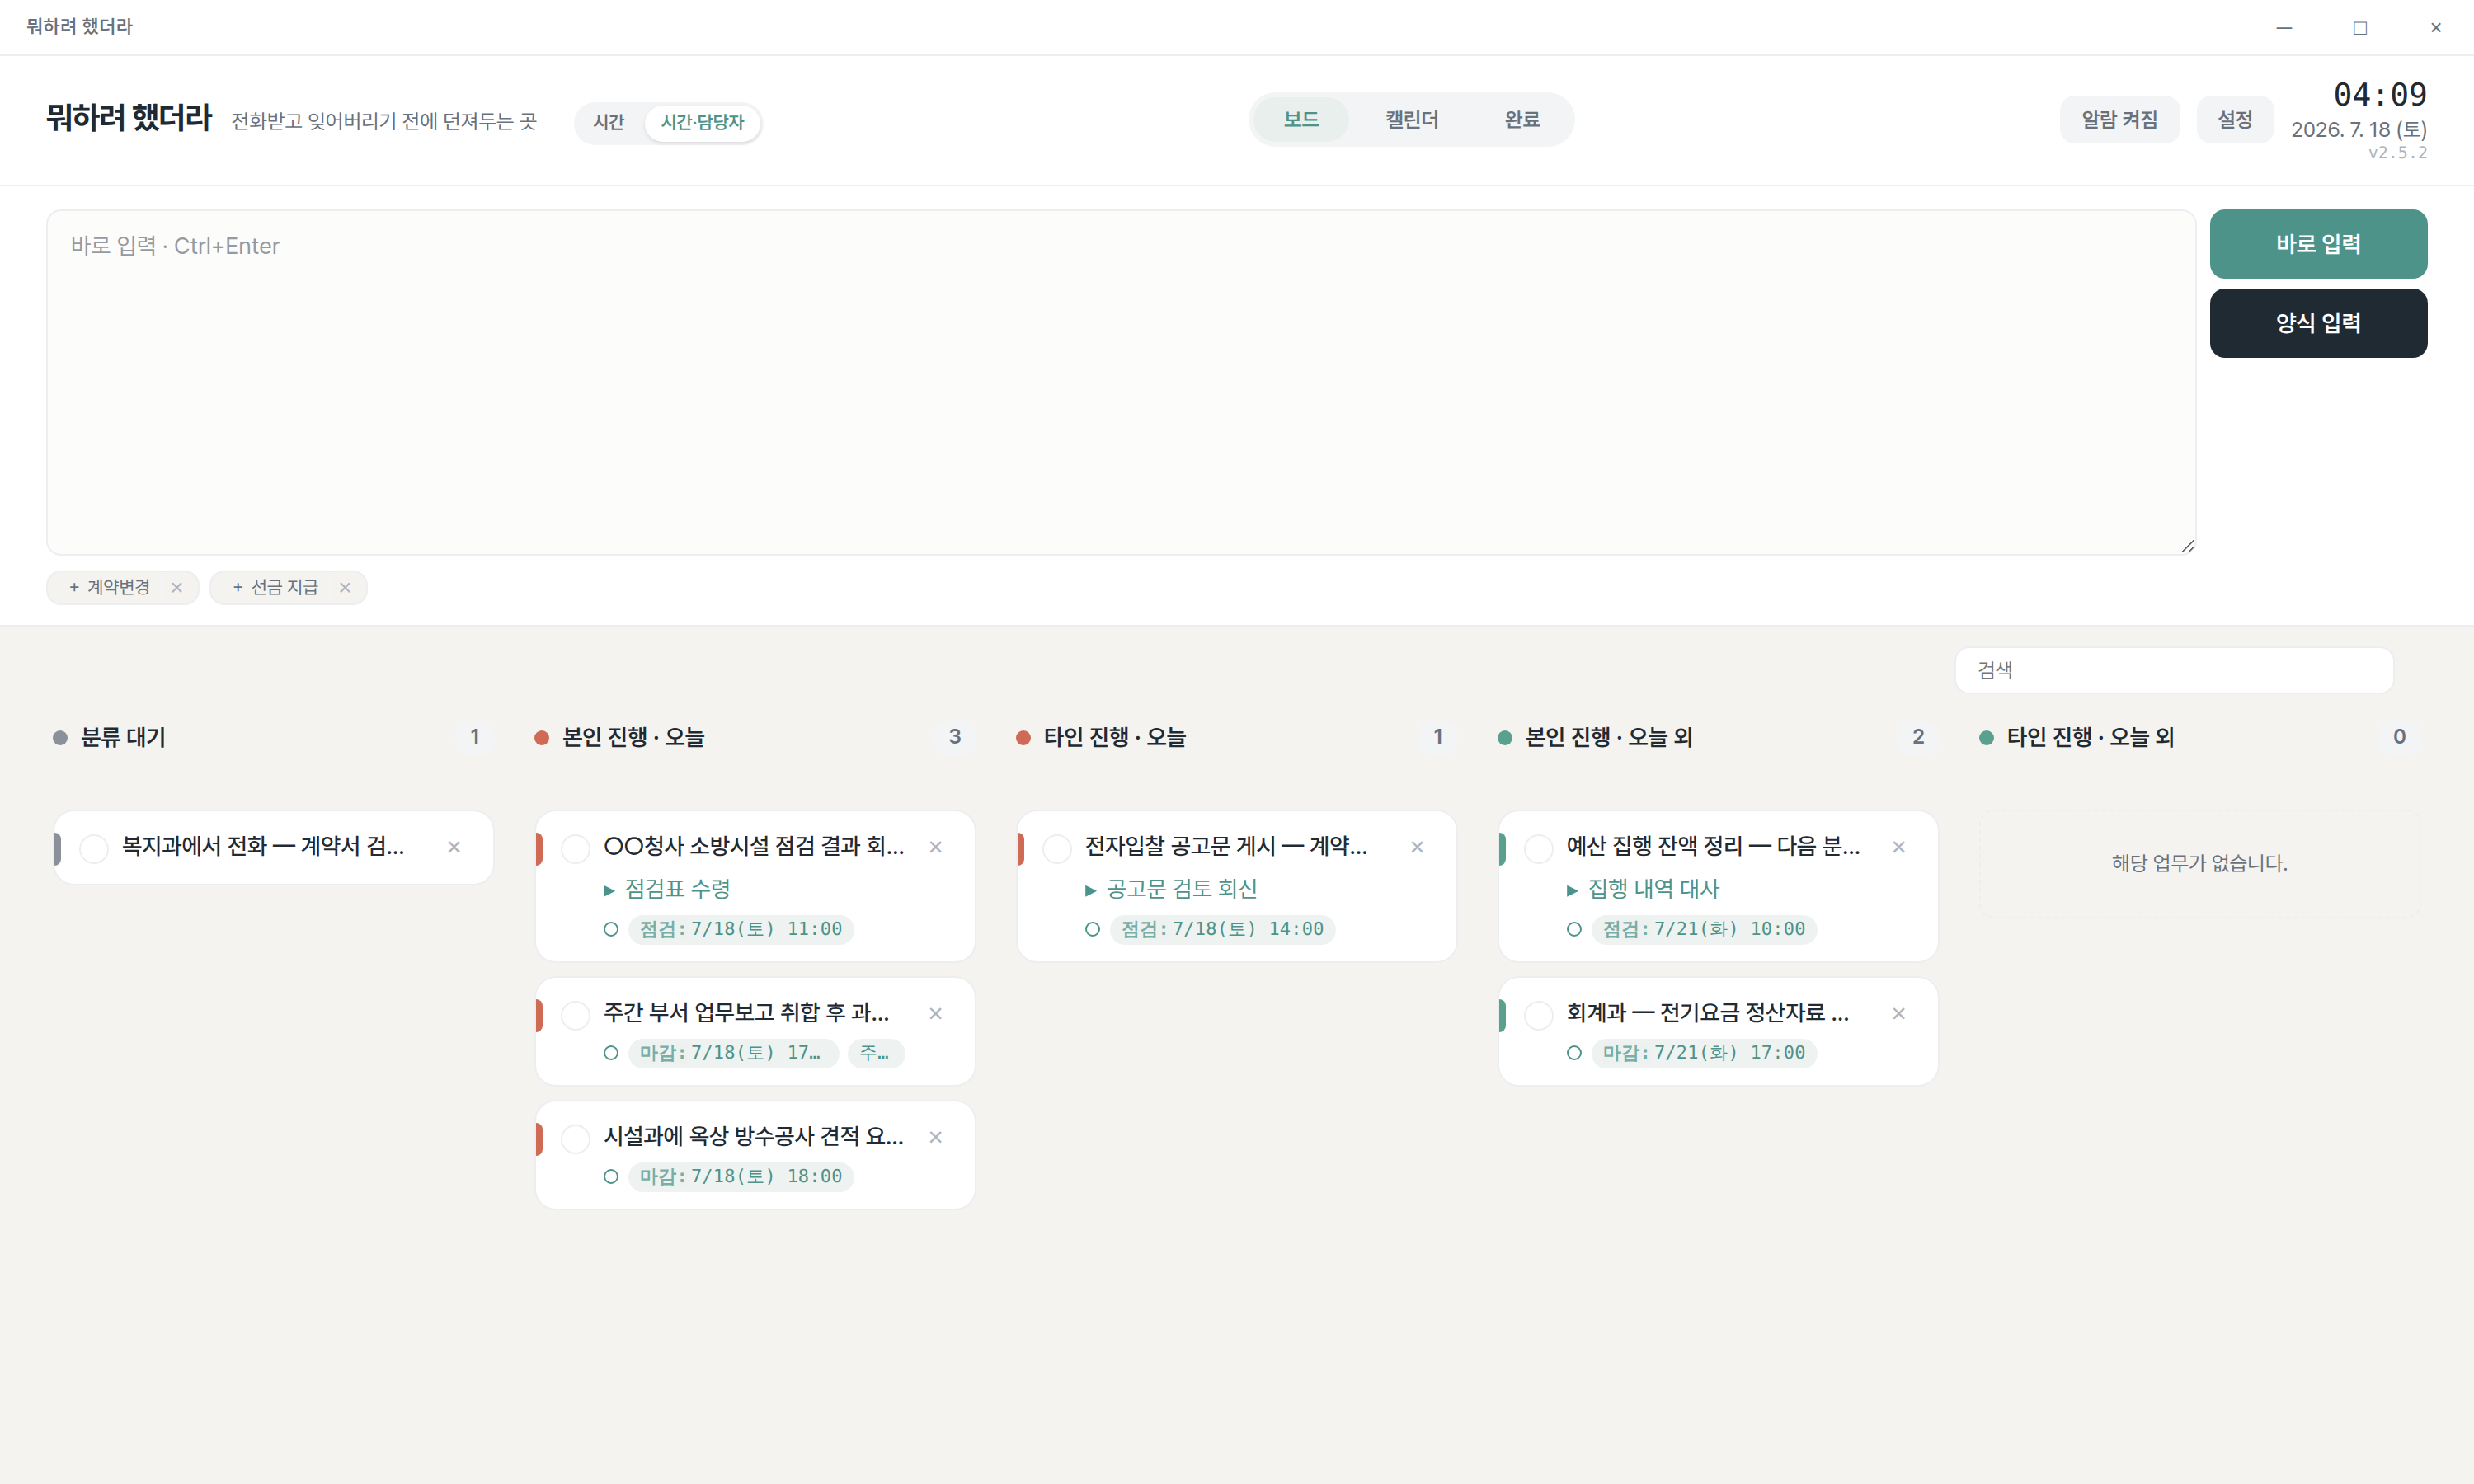
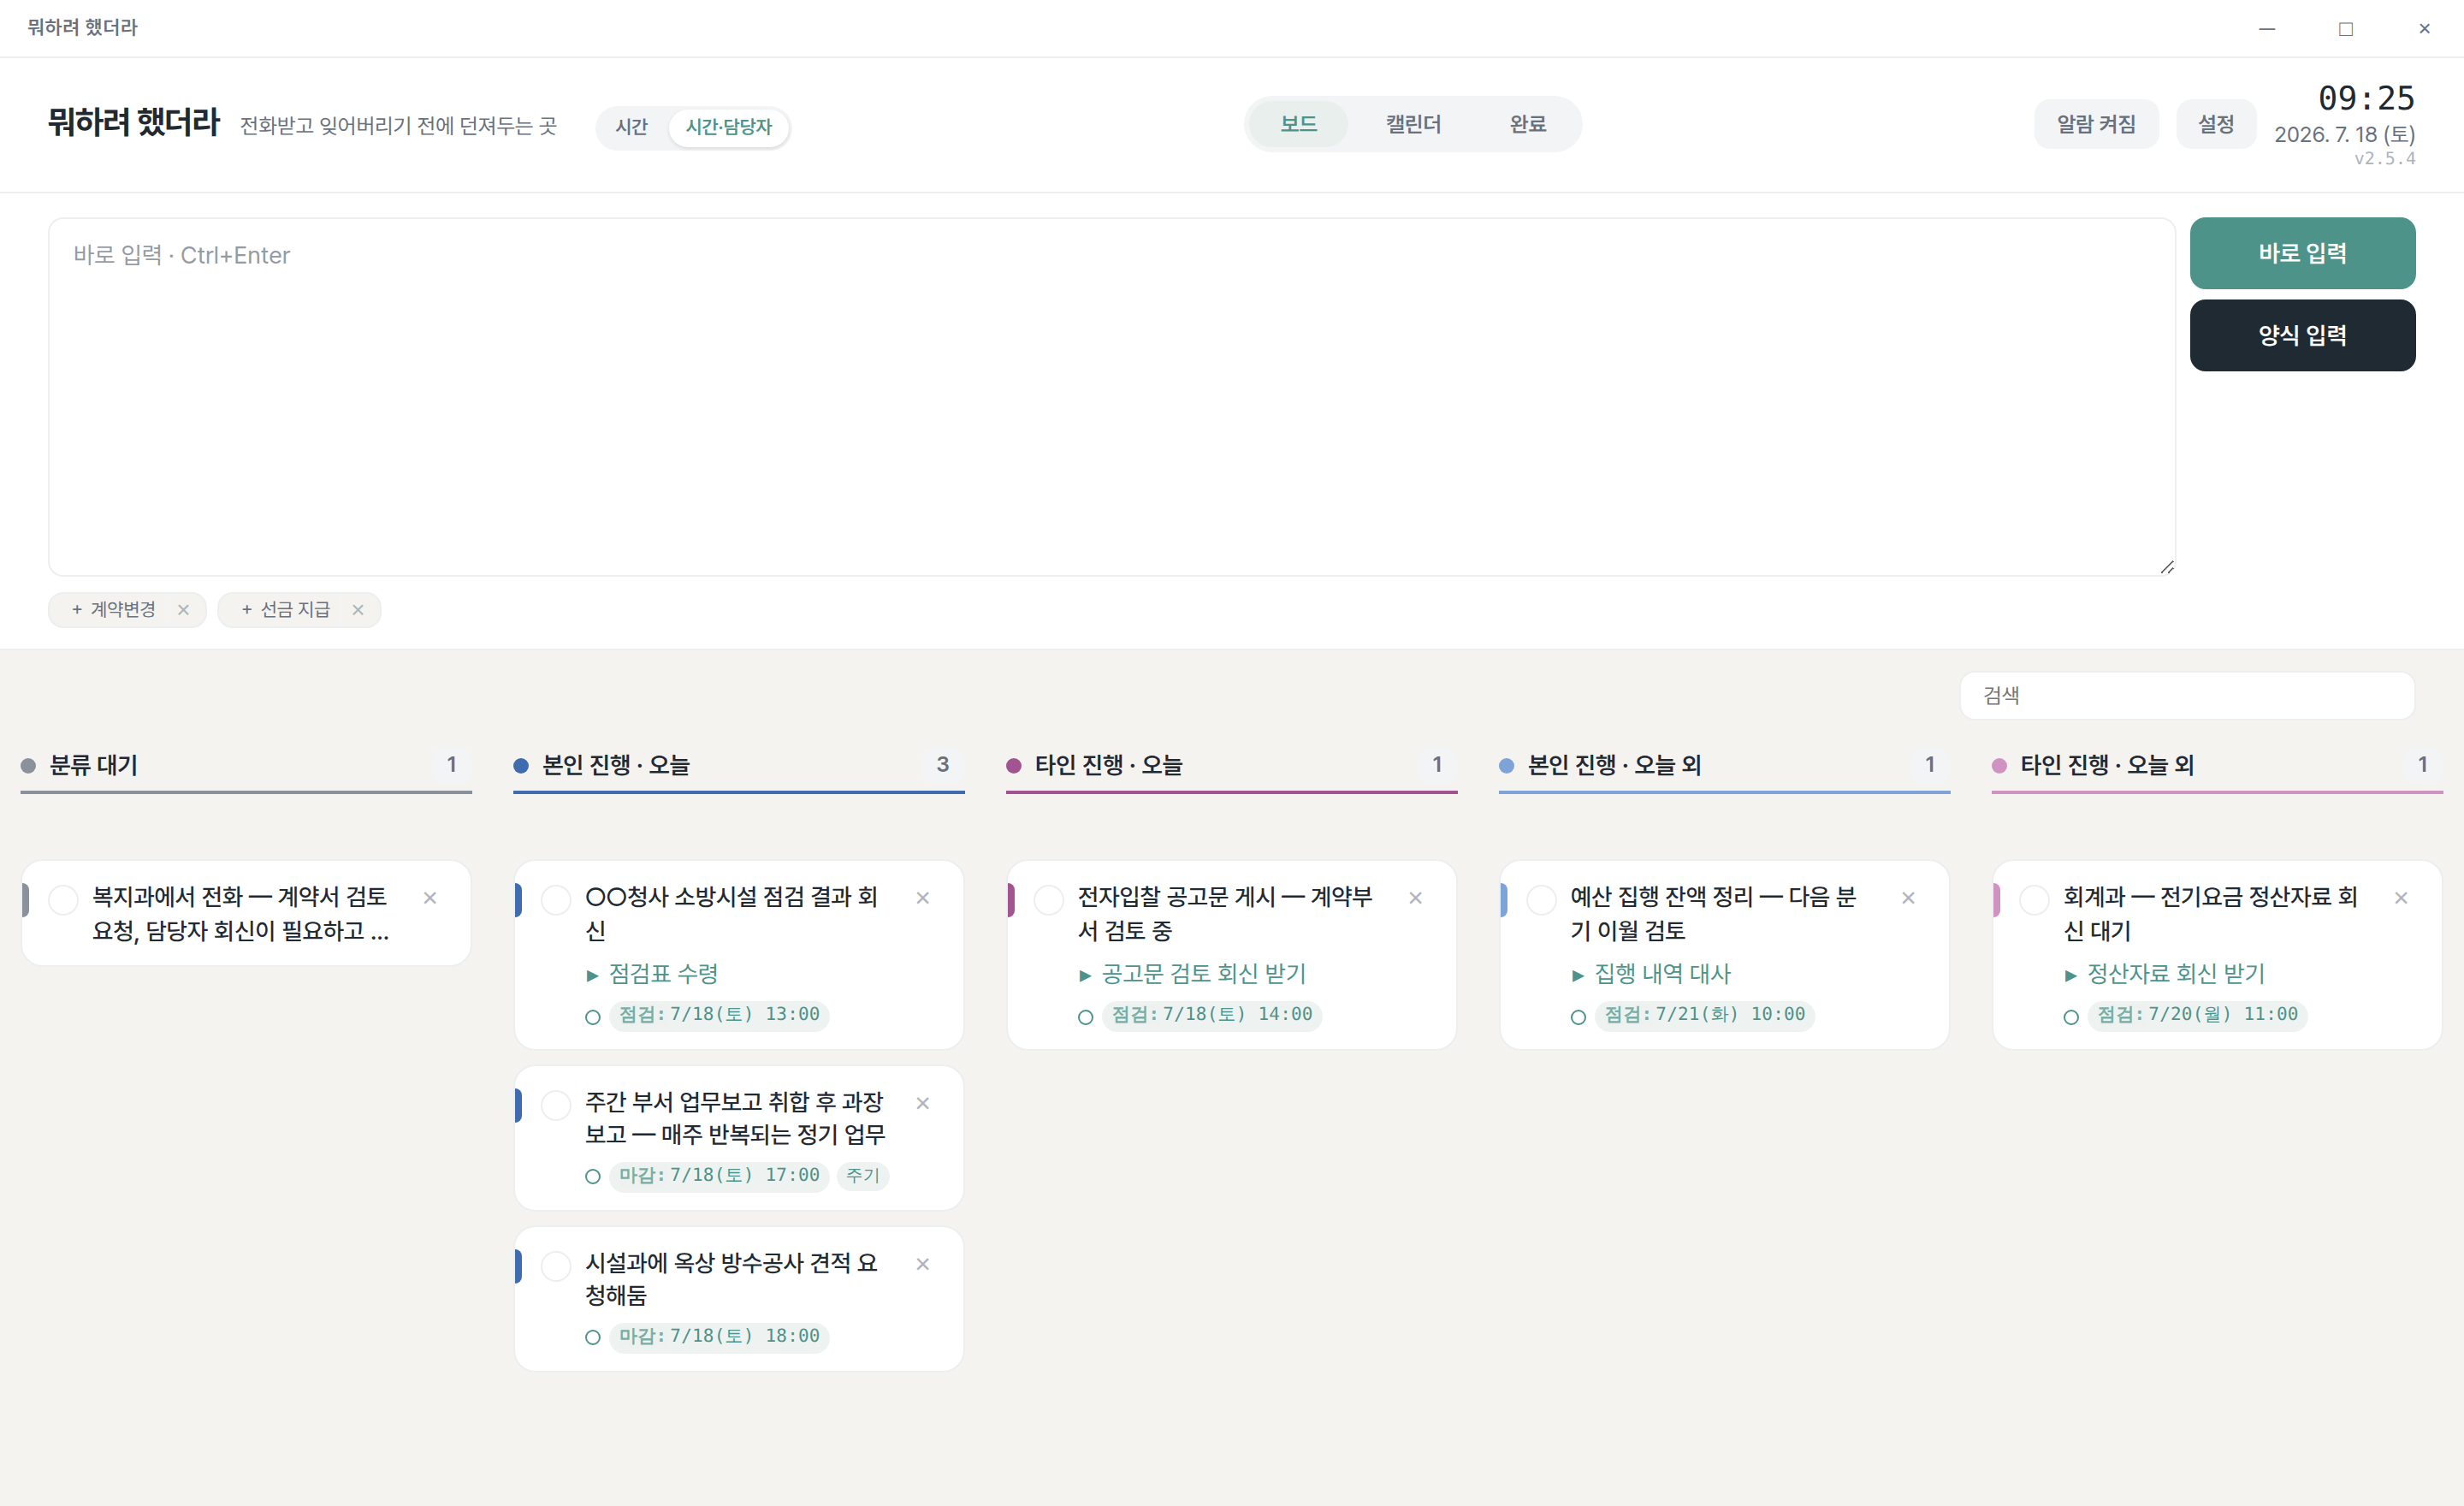
feat: UI 다듬기 — 메모 2줄·들여쓰기 통일·알림창 좌측 세그먼트·5열 색·입력창 auto-grow·반응형/가로스크롤·입력밴드 흰색 [v2.5.4]
카드 표기: 메모 최대 2줄(세부 1·시각 1과 함께 최대 4줄), 세부(▸)·시각(알람점) 줄
들여쓰기를 9px 고정폭 마커 슬롯으로 통일.
알림창: 상단 빨간 바 → 메인 카드식 왼쪽 짧은 색 세그먼트(빨강 유지), 항목도 동일.
시간·담당자 5열: 기존 단계색과 겹치지 않는 남색(본인)·자주(타인) 계열 색을
카드 세그먼트·헤더 밑줄·점에 부여(오늘 진하게/오늘 외 연하게).
바로 입력창: WebView2 드래그 리사이즈 문제를 auto-grow로 근본 해결(내용 따라 세로 확장),
배경 순백으로 입력밴드 주변 회색 톤 제거.
반응형: 좁은 창에서 모드토글이 밖으로 튀던 문제 수정(부제 숨김+브랜드 줄바꿈),
overflow-x:clip으로 가로 스크롤 제거.
문서: CHANGELOG·사용 설명서·README·CLAUDE.md 현행화 + 보드/5열/알림창/반응형 스크린샷 갱신.

Claude-Session: https://claude.ai/code/session_01Rd6saLoZi8f6TZndsjLajn

diff --git a/src/styles.css b/src/styles.css
@@ -8,6 +8,12 @@
     --stage-today:#cf6a55;    /* 오늘 처리 — 적색 */
     --stage-doing:#c69a52;    /* 진행 중 — 노랑(황토) */
     --stage-planned:#5aa08f;  /* 예정 · 대기 — 녹색 */
+    /* 시간·담당자 5열 전용 색 (v2.5.4) — 기존 단계색(회/적/황/녹)과 겹치지 않는
+       남색(본인)·자주(타인) 계열. 오늘=진하게, 오늘 외=연하게로 그룹이 한눈에 구분된다. */
+    --own-metoday:#3f6cae;    /* 본인 · 오늘 — 진한 남색 */
+    --own-othtoday:#a1548f;   /* 타인 · 오늘 — 진한 자주 */
+    --own-meplan:#7ea3d6;     /* 본인 · 오늘 외 — 연한 남색 */
+    --own-othplan:#cf93c2;    /* 타인 · 오늘 외 — 연한 자주 */
 
     /* UI 액센트 (태그 · 버튼 · 프리셋 등) — 기존 청록 유지 */
     --amber:#4d938a; --amber-bg:#eef2f0;
@@ -35,7 +41,8 @@
   *{box-sizing:border-box;margin:0;padding:0}
   html,body{height:100%}
   body{font-family:'Pretendard','Malgun Gothic','맑은 고딕',system-ui,-apple-system,sans-serif;
-       font-size:14px;background:var(--paper);color:var(--ink);-webkit-font-smoothing:antialiased;line-height:1.5}
+       font-size:14px;background:var(--paper);color:var(--ink);-webkit-font-smoothing:antialiased;line-height:1.5;
+       overflow-x:clip}   /* v2.5.4: 가로 스크롤 제거(세로 sticky 헤더에 영향 없는 clip 사용) */
   /* 유리 스크롤바 (WebView2 = webkit 계열만으로 충분) */
   /* v2.5.3: 스크롤바는 안 쓸 때 숨김 — 기본 투명, 스크롤 영역에 마우스를 올리면 유리 썸 표시 */
   ::-webkit-scrollbar{width:11px;height:11px}
@@ -191,8 +198,21 @@
   /* ---- 시간·담당자 모드 보드 (5열, v2.5.0) — main 공통 규칙 뒤에서 열 폭만 덮어씀 ---- */
   #view-board5{display:none;grid-template-columns:repeat(5,minmax(200px,292px));width:auto;max-width:1460px;justify-content:center;margin:0 auto;min-height:calc(100vh - 250px)}
   #view-board5 .col{width:auto;min-width:0;max-width:none;padding:16px 12px}
-  .card.p-metoday::before,.card.p-othtoday::before{background:var(--stage-today)}
-  .card.p-meplan::before,.card.p-othplan::before{background:var(--stage-planned)}
+  /* v2.5.4: 5개 구분 영역별 색 — 카드 좌측 세그먼트 + 컬럼 헤더 밑줄 + 점 */
+  .card.p-metoday::before{background:var(--own-metoday)}
+  .card.p-othtoday::before{background:var(--own-othtoday)}
+  .card.p-meplan::before{background:var(--own-meplan)}
+  .card.p-othplan::before{background:var(--own-othplan)}
+  #view-board5 .col-head{border-bottom:2px solid transparent;padding-bottom:4px;margin-bottom:8px}
+  #view-board5 .col:nth-child(1) .col-head{border-bottom-color:var(--stage-inbox)}
+  #view-board5 .col:nth-child(2) .col-head{border-bottom-color:var(--own-metoday)}
+  #view-board5 .col:nth-child(3) .col-head{border-bottom-color:var(--own-othtoday)}
+  #view-board5 .col:nth-child(4) .col-head{border-bottom-color:var(--own-meplan)}
+  #view-board5 .col:nth-child(5) .col-head{border-bottom-color:var(--own-othplan)}
+  #view-board5 .col:nth-child(2) .dot{background:var(--own-metoday)}
+  #view-board5 .col:nth-child(3) .dot{background:var(--own-othtoday)}
+  #view-board5 .col:nth-child(4) .dot{background:var(--own-meplan)}
+  #view-board5 .col:nth-child(5) .dot{background:var(--own-othplan)}
   .col:last-child{border-right:none}
   .col-head{display:flex;align-items:center;gap:8px;margin-bottom:3px}
   .dot{width:9px;height:9px;border-radius:50%;flex:none}
@@ -341,9 +361,13 @@
 
   .alarm-bg{position:fixed;inset:0;z-index:120;background:rgba(20,27,36,.5);display:none;align-items:center;justify-content:center;padding:20px}
   .alarm-bg.on{display:flex}
-  .alarm{background:var(--card);border-top:5px solid var(--red);border-radius:9px;max-width:500px;width:100%;padding:18px 20px;box-shadow:0 20px 60px rgba(0,0,0,.3)}
+  /* v2.5.4: 알림창 왼쪽면을 메인 카드와 동일한 '짧은 색 세그먼트'로 통일(단계색=빨강 유지).
+     기존 상단 빨간 바·항목 풀-높이 좌측선 → 카드처럼 좌측 상단 짧은 세그먼트(::before). */
+  .alarm{background:var(--card);border:1px solid var(--line);border-radius:13px;max-width:500px;width:100%;padding:18px 20px 18px 22px;position:relative;overflow:hidden;box-shadow:0 20px 60px rgba(0,0,0,.3)}
+  .alarm::before{content:"";position:absolute;left:0;top:20px;width:4px;height:22px;border-radius:0 4px 4px 0;background:var(--red)}
   .alarm h3{font-size:16px;font-weight:700;color:var(--red);margin-bottom:12px}
-  .alarm .a-item{font-size:14px;padding:8px 10px;border:1px solid var(--line-soft);border-left:3px solid var(--red);border-radius:6px;margin-bottom:6px;background:#fdfafa}
+  .alarm .a-item{position:relative;overflow:hidden;font-size:14px;padding:8px 10px 8px 15px;border:1px solid var(--line);border-radius:13px;margin-bottom:6px;background:#fff}
+  .alarm .a-item::before{content:"";position:absolute;left:0;top:9px;width:4px;height:18px;border-radius:0 4px 4px 0;background:var(--red)}
   .alarm .a-item b{color:var(--red);font-size:11px;font-family:var(--font-mono);margin-right:6px}
   .alarm .a-item .mono{font-size:11px;color:var(--ink-soft);margin-left:6px}
   .a-actions{display:flex;gap:8px;justify-content:flex-end;margin-top:12px}
@@ -360,7 +384,8 @@
     .fm-grid{grid-template-columns:1fr 1fr}
   }
   /* ---- v5 추가 ---- */
-  textarea#inp{flex:1;min-width:0;resize:vertical;height:210px;font-family:inherit;font-size:14px;line-height:1.5;padding:11px 14px;border:1.5px solid var(--line);border-radius:9px;background:#fcfcfb;color:var(--ink)}
+  /* v2.5.4: height→min-height (JS auto-grow가 내용에 맞춰 늘림, 최소는 210px 유지) · 배경 순백(#fff)으로 입력밴드 주변 회색 톤 제거 */
+  textarea#inp{flex:1;min-width:0;resize:vertical;min-height:210px;font-family:inherit;font-size:14px;line-height:1.5;padding:11px 14px;border:1.5px solid var(--line);border-radius:9px;background:#fff;color:var(--ink)}
   textarea#inp::placeholder{color:var(--ink-soft);opacity:.7}
   textarea#inp:focus{outline:none;border-color:var(--focus);background:#fff;box-shadow:0 0 0 3px rgba(26,95,110,.14)}
   .cap-btns{display:flex;flex-direction:column;gap:6px;flex:none;width:132px}
@@ -387,11 +412,14 @@
   .dt-dow{font-size:11px;color:var(--ink-soft);min-width:22px;flex:none}
   /* v5 카드 요약 */
   .card{cursor:pointer}
-  /* v2.5.2: 메모도 최대 1줄 — 카드 전체가 줄당 1행(메모·세부·시각) */
-  .card-memo{font-size:14px;font-weight:500;line-height:1.4;color:var(--ink);display:-webkit-box;-webkit-line-clamp:1;-webkit-box-orient:vertical;overflow:hidden;word-break:break-word}
+  /* v2.5.4: 메모 최대 2줄 (세부 1줄·시각 1줄과 함께 카드 최대 4줄) */
+  .card-memo{font-size:14px;font-weight:500;line-height:1.4;color:var(--ink);display:-webkit-box;-webkit-line-clamp:2;-webkit-box-orient:vertical;overflow:hidden;word-break:break-word}
   .card.done .card-memo{text-decoration:line-through;color:var(--done)}
   /* v2.5.1: 세부 제목 글자는 메모와 동일 크기(14px), 점검 시각 칩은 메타 줄의 점검: 태그로 이동 */
-  .card-subline{font-size:14px;color:var(--slate);margin-top:5px;display:flex;align-items:center;gap:6px;white-space:nowrap;overflow:hidden;text-overflow:ellipsis}
+  .card-subline{font-size:14px;color:var(--slate);margin-top:5px;display:flex;align-items:center;gap:5px;white-space:nowrap;overflow:hidden;text-overflow:ellipsis}
+  /* v2.5.4: 세부(▸)·시각(알람점) 두 줄의 들여쓰기를 통일 — 앞 마커를 알람점과 같은 9px 폭 슬롯으로.
+     세부: 9px 마커 + gap5 = 14px, 시각: 알람점 9px + margin1 + meta gap4 = 14px → 뒤 텍스트가 정렬된다. */
+  .card-subline .sub-mark{display:inline-block;width:9px;flex:none;text-align:center;color:var(--slate)}
   /* 알람 점 — 울림 여부 3단계(v2.4.4): ○ 대기 / ● 울림(빨강·깜빡임) / ● 확인함(초록) */
   .adot{display:inline-block;width:9px;height:9px;border-radius:50%;flex:none;vertical-align:middle;margin-right:1px}
   .adot.ad-wait{border:1.5px solid var(--slate);background:transparent}
@@ -432,9 +460,16 @@
     /* 세로 배치에서 입력칸이 절반 폭으로 쪼그라들지 않게 stretch + 폭 100%.
        높이도 낮춰 좁은 창에서 입력부가 화면을 다 먹지 않게. */
     .cap-row{flex-direction:column;align-items:stretch}
-    textarea#inp{width:100%;height:110px}
+    textarea#inp{width:100%;min-height:110px}
     .cap-btns{flex-direction:row;width:100%}
     .cap-btns .btn{flex:1;height:38px}
+  }
+  /* v2.5.4: 좁은 창 헤더 — 부제(설명글)를 숨기고 브랜드를 줄바꿈 허용해
+     모드토글(시간·담당자)이 화면 밖으로 튀어나가지 않게(가로 스크롤 방지). */
+  @media(max-width:820px){
+    .brand{flex-wrap:wrap;min-width:0}
+    .brand .sub{display:none}
+    .mode-pill{margin-left:0;margin-top:2px}
   }
   @media(max-width:620px){
     main{grid-template-columns:1fr}

diff --git a/src/form.js b/src/form.js
@@ -18,7 +18,16 @@ export function captureMemo(t){
 export function toInbox(){
   const t=$('inp').value.trim(); if(!t){$('inp').focus();return;}
   captureMemo(t);
-  $('inp').value=''; $('inp').focus();
+  $('inp').value=''; $('inp').style.height=''; $('inp').focus();   // 등록 후 높이 초기화(min-height로 복귀)
+}
+/* v2.5.4: 바로 입력창 자동 세로 확장 — 내용에 맞춰 늘어난다(최소 CSS min-height, 최대 60vh 뒤 스크롤).
+   WebView2에서 드래그 리사이즈가 잘 안 잡히던 문제를 근본 해결(타이핑만으로 늘어남). resize 핸들은 그대로 둠. */
+export function autoGrowInp(){
+  const el=$('inp'); if(!el) return;
+  el.style.height='auto';
+  const min=parseFloat(getComputedStyle(el).minHeight)||0;
+  const max=Math.max(min, Math.round(window.innerHeight*0.6));
+  el.style.height=Math.min(Math.max(el.scrollHeight, min), max)+'px';
 }
 
 /* (2) 양식 패널 */
@@ -204,6 +213,7 @@ export function initForm(){
   document.body.appendChild($('formPanel'));
   $('toInbox').addEventListener('click', toInbox);
   $('inp').addEventListener('keydown',e=>{ if(e.key==='Enter'&&(e.ctrlKey||e.metaKey)){e.preventDefault();toInbox();} });
+  $('inp').addEventListener('input', autoGrowInp);   // v2.5.4: 입력 시 자동 세로 확장
   $('fm-contactadd').addEventListener('click',()=>addContactRow());
   $('fm-idadd').addEventListener('click',()=>{
     addFormIdRow(S.idKinds[0]||'기타','');
@@ -218,7 +228,7 @@ export function initForm(){
     catch(e){ alert('파일 선택 실패: '+e); return; }
     if(p) addFormFileRow(p);
   });
-  $('blankForm').addEventListener('click',()=>{ const t=$('inp').value.trim(); openForm(t?{memo:t}:{}); if(t)$('inp').value=''; });
+  $('blankForm').addEventListener('click',()=>{ const t=$('inp').value.trim(); openForm(t?{memo:t}:{}); if(t){$('inp').value='';$('inp').style.height='';} });
   $('fm-cancel').addEventListener('click',closeForm);
   $('formPanel').addEventListener('input',e=>{ if(e.target.closest('#fm-grid,#fm-subs')) updatePlacePreview(); });
   $('fm-save').addEventListener('click',()=>{

diff --git a/src/render.js b/src/render.js
@@ -81,7 +81,7 @@ export function cardHtml(it,place){
   const dueT=(it.f||{}).due?new Date(it.f.due).getTime():NaN;
   const esT=es&&es.mid?new Date(es.mid).getTime():NaN;
   const subFirst = !isNaN(esT) && (isNaN(dueT) || esT<dueT);
-  const subLine = es?`<div class="card-subline">▸ <span class="sub-title">${esc(es.title)}</span></div>`:'';
+  const subLine = es?`<div class="card-subline"><span class="sub-mark">▸</span><span class="sub-title">${esc(es.title)}</span></div>`:'';
   const timeTag = subFirst ? timePill(es,'mid',es.mid,'점검:') : dueTagHtml(it);
   /* v2.5.2 주기 배지는 시각 줄에 인라인(시각 없으면 단독 줄) — 4번째 메타 줄(#세부·#담당) 폐지 */
   const timeLine = (timeTag||recurTag)?`<div class="card-meta">${timeTag}${recurTag}</div>`:'';

diff --git a/사용 설명서.md b/사용 설명서.md
@@ -43,18 +43,19 @@
 
 ![보드 화면 — 분류 대기·오늘 처리·진행 중·예정·대기 네 칸](docs/screenshots/board.png)
 
-> 예시 데이터 화면입니다. 오른쪽 위에 현재 버전(v2.5.2)이 보입니다.
+> 예시 데이터 화면입니다. 오른쪽 위에 현재 버전(v2.5.4)이 보입니다.
 
 ### 카드 읽는 법
 
-카드 한 장은 **세 줄**이 전부입니다. 각 줄은 한 행으로만 표시됩니다(길면 …).
+카드 한 장은 **최대 네 줄**입니다 — 메모만 두 줄까지, 나머지는 각 한 줄(길면 …).
 
 | 줄 | 내용 |
 |---|---|
-| 1줄 | **메모** — 무슨 일인지 |
-| 2줄 | **세부할일** — 다음에 할 중간 단계 (있을 때만) |
-| 3줄 | **시각** — `점검:`(다가오는 세부할일 시각) 또는 `마감:`(마감 시각) |
+| 1~2줄 | **메모** — 무슨 일인지 (최대 두 줄) |
+| 3줄 | **세부할일** — 다음에 할 중간 단계 (있을 때만) |
+| 4줄 | **시각** — `점검:`(다가오는 세부할일 시각) 또는 `마감:`(마감 시각) |
 
+- 세부할일 줄과 시각 줄은 앞 표시(▸·알람 점)의 시작선을 맞춰 **같은 위치에서 들여쓰기**됩니다.
 - 시각 태그는 **임박(지났거나 2시간 이내)일 때만 붉게** 강조됩니다. 그 외엔 중립색.
 - `주기` 배지 = 주기 업무에서 자동 생성된 카드.
 - 시각 앞의 작은 점(●)은 알람 상태입니다 → [4. 알람](#4-알람--잊지-않게) 참고.
@@ -80,7 +81,10 @@
 
 **② 시간·담당자 방식** — "내 일인가, 남에게 넘겨 기다리는 일인가"를 함께 봅니다.
 
-![시간·담당자 보드 — 다섯 칸](docs/screenshots/board-owner.png)
+![시간·담당자 보드 — 다섯 칸, 영역별 색 구분](docs/screenshots/board-owner.png)
+
+> 다섯 칸은 **색으로 구분**됩니다 — 분류 대기(회색), **본인**(남색), **타인**(자주),
+> 오늘은 진하게 / 오늘 외는 연하게. 카드 왼쪽 색 세그먼트와 칸 제목 밑줄이 같은 색입니다.
 
 | 칸 | 여기에 오는 일 |
 |---|---|
@@ -94,6 +98,16 @@
 - 카드의 본인/타인은 *가장 먼저 도래하는 미완료 세부할일의 담당자*로 판정합니다.
   담당자를 적은 세부할일이 없으면 본인 업무입니다.
 
+### 창을 좁혀도 깨지지 않습니다 (반응형)
+
+창을 반으로 줄이거나 세로로 세워도 화면이 **가로로 넘치지 않습니다.**
+칸 수를 줄이고(넓을 땐 4·5칸 → 좁으면 2칸 → 아주 좁으면 1칸), 좁아지면 헤더의 설명 문구를
+접어 넣어 **줄 수는 늘리지 않고 가로폭만 줄이는** 방향으로 정리됩니다. 가로 스크롤은 생기지 않습니다.
+
+![좁은 화면 — 한 칸으로 세로로 쌓인 보드](docs/screenshots/board-responsive.png)
+
+> 위는 창을 좁게 세운 모습입니다. 카드 표기(메모 2줄·세부·시각)와 색 구분은 그대로 유지됩니다.
+
 ---
 
 ## 3. 일 던져두기 (입력)
@@ -103,6 +117,7 @@
 ### ① 바로 입력 — 가장 빠름
 화면 위 입력창에 적고 `Ctrl+Enter` (또는 [바로 입력] 버튼).
 '분류 대기'에 쌓입니다. 전화 받는 중이라면 일단 이걸로.
+내용이 길어지면 입력창이 **자동으로 세로로 늘어납니다**(등록하면 원래 높이로 복귀).
 
 ### ② 빠른 메모창 — 다른 프로그램을 쓰는 중일 때
 문서·결재 화면을 보다가도 `Ctrl+Alt+Space` → 작은 메모창이 뜹니다.
@@ -164,6 +179,8 @@
 ## 4. 알람 — 잊지 않게
 
 마감·점검 시각이 되면 **알림창이 뜨고 소리가 납니다** (프로그램이 뒤에 있어도 앞으로 나옵니다).
+
+![알람창 — 왼쪽 색 세그먼트가 보드 카드와 같은 디자인](docs/screenshots/alarm.png)
 
 | 버튼 | 하는 일 |
 |---|---|

diff --git a/CLAUDE.md b/CLAUDE.md
@@ -15,7 +15,7 @@ Branch-protection rules on `main` (require PR, block direct push) have **not** b
 
 ## Versioning convention (user-defined)
 
-Current release = **v2.5.3**.
+Current release = **v2.5.4**.
 
 > ⚠️ **버전 이력 주의 (반드시 읽을 것 — 과거에 여기서 혼선이 있었다):** 저장소 git 히스토리에는
 > `v3.0.0`·`v3.1.0` 커밋과 CHANGELOG 항목이 남아 있지만, **v3.x는 실제로 배포된 적이 없다.**
@@ -23,7 +23,7 @@ Current release = **v2.5.3**.
 > 두고 **대규모 개편(major)도 아닌데 버전을 3.0.0으로 임의 상향**해 버린 것이다(잘못된 범프).
 > 저장소 소유자 결정으로 이를 바로잡아, 실제 정식 배포는 **구 v2.31 라인을 잇는 `v2.4.0`**
 > 으로 되돌렸다. 따라서:
-> - **현재/실제 배포 버전 = v2.5.3.** 세 매니페스트(package.json·Cargo.toml·tauri.conf.json) 동일.
+> - **현재/실제 배포 버전 = v2.5.4.** 세 매니페스트(package.json·Cargo.toml·tauri.conf.json) 동일.
 > - v3.0.0·v3.1.0 CHANGELOG 항목은 *내부 이력*으로만 읽고, 실 배포 번호로 착각하지 말 것.
 > - **다음 버전은 v2.4.x(버그·사소한 조정) / v2.5.0(기능 추가)로 이어간다.** 진짜 호환성 깨지는
 >   대규모 개편이 아닌 한 다시 3.x로 올리지 말 것. (자동 업데이터·버전 비교 로직이 없어 역전은 무해.)
@@ -81,7 +81,7 @@ Split from the former single-file `app.js` in v2.21 along single-responsibility 
 - `settings-menu.js` — header [설정] dropdown that hosts 저장 위치/백업/불러오기/XLSX/프리셋·식별번호 관리/주기 업무 입력·관리 buttons (ids unchanged — action listeners stay in their own modules). (The two Everything toggles were removed in v2.4.0.)
 - `filters.js` — `haystack()`/`textMatch()` search predicates (pure functions, no state/DOM; board search and done search share them, and future saved-filter views build on them). Since v3.0.0 the haystack includes linked file *names* (last path segment only, not folder names).
 - (`everything.js` — **removed in v2.4.0**. The Everything(voidtools) file-search integration was deleted because it slowed the board/quick-memo search.) File links are **not shown on board cards since v2.4.1** — cards render memo(2 lines)·earliest sub·due only; files live in the form popup (`form.js` `addFormFileRow`) where each row has an active↔edit toggle (active = name shown as a link that opens on click / edit = editable path input + a **찾기** button calling `pick_file_path`).
-- `styles.css` — single global stylesheet. **v2.4.5 디자인 리뉴얼:** 팔레트가 뮤트 틸 액센트(`--slate`/`--focus`/`--amber` = `#4d938a`) + 따뜻한 뉴트럴 배경(`--paper:#f4f3f0`) + 흰 카드. 단계 표시는 카드 좌측 풀바 → **`.card::before` 짧은 색 세그먼트**(`--stage-*`). 원형 체크박스(`.chk` border-radius:50%), 알약형 탭/태그(999px), 소프트 hover 섀도. 색은 전부 CSS 변수라 팔레트 변경은 `:root` 토큰만 고치면 전파된다. (`.adot` 3단계 알람 점 규칙은 그대로 — render.js가 emit.)
+- `styles.css` — single global stylesheet. **v2.4.5 디자인 리뉴얼:** 팔레트가 뮤트 틸 액센트(`--slate`/`--focus`/`--amber` = `#4d938a`) + 따뜻한 뉴트럴 배경(`--paper:#f4f3f0`) + 흰 카드. 단계 표시는 카드 좌측 풀바 → **`.card::before` 짧은 색 세그먼트**(`--stage-*`). 원형 체크박스(`.chk` border-radius:50%), 알약형 탭/태그(999px), 소프트 hover 섀도. 색은 전부 CSS 변수라 팔레트 변경은 `:root` 토큰만 고치면 전파된다. (`.adot` 3단계 알람 점 규칙은 그대로 — render.js가 emit.) **v2.5.4:** `.card-memo` 2줄 클램프(세부 1·시각 1과 함께 카드 최대 4줄); 세부(▸)·시각(알람점) 줄은 앞 마커를 9px 고정폭 슬롯(`.sub-mark`)으로 맞춰 들여쓰기 통일; 시간·담당자 5열 전용 색(`--own-metoday/othtoday/meplan/othplan` = 남색·자주 계열, 기존 단계색과 비겹침 — 카드 세그먼트+`#view-board5` 헤더 밑줄·점에 nth-child로 적용); 알림창(`.alarm`/`.a-item`) 좌측을 카드식 `::before` 짧은 세그먼트로(빨강 유지); `body{overflow-x:clip}`로 가로 스크롤 제거; `textarea#inp` 배경 순백 + `height`→`min-height`(form.js `autoGrowInp`가 내용 따라 세로 확장).
 - `placement.js` — `placeOf()` / `dayBounds` / `PLACE_NAME` (the core scheduling logic). **v2.5.0 board modes:** the module stays import-free; `setPlaceMode('time'|'owner')` + `placeMode()` hold module-local mode state (main.js sets it from `settings.boardMode` after load and on the header `#modePill` toggle; default `'time'` keeps the legacy 4-column logic byte-identical). In `'owner'` mode `placeOf` returns `'metoday'|'othtoday'|'meplan'|'othplan'` (5-column view `#view-board5`): assignee via `ownerOf(it)` = earliest valid pending-mid sub's `owner` → `''`(본인) — v2.5.2부터 item-level owner는 배치에 안 쓰는 legacy pass-through(UI 제거, 데이터만 보존); reference time = earliest of pending mids ∪ due, no time ⇒ today. Placement stays derived-only, so switching modes never mutates data.
 - `datetime.js` — date/time parsers (F3/F4/F13), dt input widget helpers, `DOW`/`fmtT`/`fmtDue`, `initDtDelegation()` (document-level delegated listeners for the widget).
 - `store.js` — `invoke` (from `window.__TAURI__.core`; `withGlobalTauri: true`), `STORE` persistence facade (single-flight `saveAll` queue, F1 gate on `S.loaded`).

diff --git a/README.md b/README.md
@@ -1,6 +1,6 @@
 # 뭐하려 했더라
 
-전화받고 잊어버리기 전에 던져두는 업무 메모 보드. 공무원 내부망(인터넷 차단, 관리자 권한 없는 PC) 환경을 위한 **오프라인 단독 실행형 Windows 데스크톱 앱**입니다. (이름이 '뭐해야 했더라' → **'뭐하려 했더라'**로 바뀌었고, 버전은 X.Y.Z 체계를 씁니다. 현재 배포 버전은 **v2.5.2**. 기존 데이터·백업과 완전 호환됩니다.)
+전화받고 잊어버리기 전에 던져두는 업무 메모 보드. 공무원 내부망(인터넷 차단, 관리자 권한 없는 PC) 환경을 위한 **오프라인 단독 실행형 Windows 데스크톱 앱**입니다. (이름이 '뭐해야 했더라' → **'뭐하려 했더라'**로 바뀌었고, 버전은 X.Y.Z 체계를 씁니다. 현재 배포 버전은 **v2.5.4**. 기존 데이터·백업과 완전 호환됩니다.)
 
 > 📖 **처음 사용하시나요?** 사용자용 안내는 [`사용 설명서.md`](./사용%20설명서.md)에 친절하게 정리돼 있습니다. 아래는 요약과 개발자용 정보입니다.
 